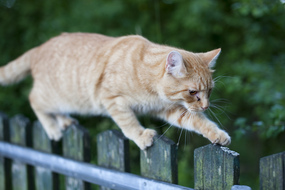
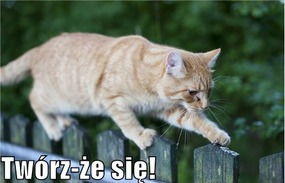
lesmianator: use cPickle, change main

diff --git a/wolnelektury/templates/catalogue/main_page.html b/wolnelektury/templates/catalogue/main_page.html
@@ -16,16 +16,20 @@
     <div id="intro">
         <p id="tags-description">↓ {% trans "Browse books by categories" %} ↓</p>
         <div id="propaganda">
-            <!--p><a href="{% url epub %}"><img src="/static/img/epub-www.jpg" alt="epub: lektury w kieszeni" /></a></p-->
+            {# <p><a href="{% url epub %}"><img src="/static/img/epub-www.jpg" alt="epub: lektury w kieszeni" /></a></p> #}
 
             <h2>Leśmianator — poeta automagiczny</h2>
-            <p><img src="/static/img/mats_erikssonCCBYNCSA.jpg" title="{% trans "Author" %}: Mats Eriksson@Flickr, CC BY-NC-SA" /><br/>
-            <cite>Z drogi! — Idzie poeta — niebieski wycieruch!<br/>
+            <p><a href="{% url lesmianator %}">
+                <img src="/static/img/mats_erikssonCCBYNCSA.jpg" title="{% trans "Author" %}: Mats Eriksson@Flickr, CC BY-NC-SA" alt="Twórz-że się!" />
+                </a><br/>
+
+            Poezja z Wolnych Lektur przepuszczona przez mikser. Stwórz własny wiersz klikając w <a href="{% url lesmianator %}" rel="nofollow">link</a>.</p>
+
+            <p><cite>Z drogi! — Idzie poeta — niebieski wycieruch!<br/>
 Zbój obłoczny, co z światem jest — wspak i na noże!<br/>
 Baczność! — Nic się przed takim uchronić nie może!<br/>
 (<a href='/katalog/lektura/poeta.html#m1199873758998'>źródło</a>)</cite></p>
 
-<p>Poezja z Wolnych Lektur przepuszczona przez mikser. Stwórz własny wiersz klikając w link:</p>
                 <p class="see-more"><a href="{% url lesmianator %}">{% trans "Twórz-że się!" %} ⇒</a></p>
 
             <h2>{% trans "Wolne Lektury Widget" %}</h2>

diff --git a/apps/lesmianator/views.py b/apps/lesmianator/views.py
@@ -1,6 +1,6 @@
 # Create your views here.
 
-import pickle
+import cPickle
 from django.shortcuts import render_to_response
 from django.template import RequestContext
 from random import randint
@@ -23,7 +23,7 @@ def _choose_word(word):
 # load dictionary on start, it won't change
 try:
     f = open(os.path.join(os.path.dirname(__file__), 'dictionary.p'))
-    _dictionary = pickle.load(f)
+    _dictionary = cPickle.load(f)
 except:
     _dictionary = {}
 
